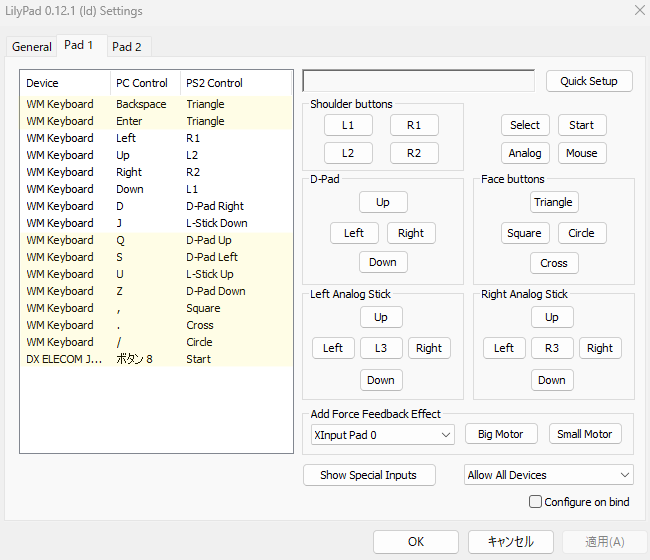
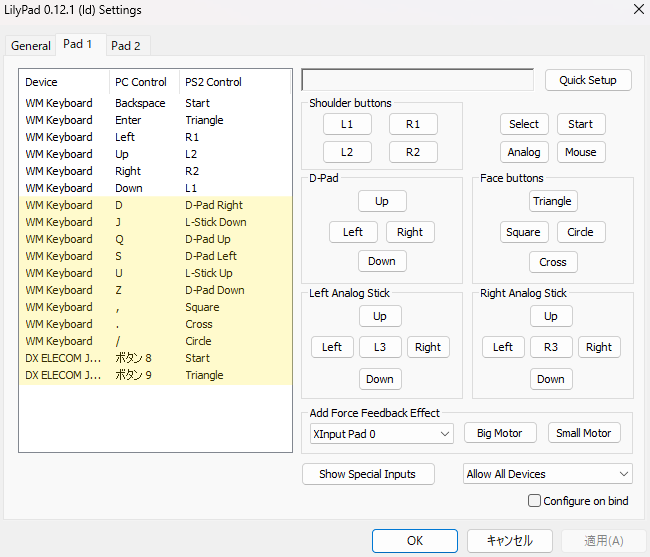
fix: BVEのSTARTキー割り当て修正およびPCSX2のSTART/SELECTキー送信を廃止

diff --git a/modes/pcsx2.py b/modes/pcsx2.py
@@ -80,7 +80,6 @@ class Pcsx2Logic(BaseLogic):
                         for _ in range(diff): self.press_emu(KEY_PCSX2_POWER_INC)
                     pydirectinput.keyDown(KEY_PCSX2_POWER_INC)
                     self.prev_axis = 5
-                self._handle_buttons(raw_btns)
                 return
 
         # ---------------------------------------------------------
@@ -130,14 +129,3 @@ class Pcsx2Logic(BaseLogic):
                             for _ in range(abs(diff)): self.press_emu(B_INC)
             
             self.prev_axis = cur_axis
-        
-        self._handle_buttons(raw_btns)
-
-    def _handle_buttons(self, raw_btns):
-        is_st, is_sl = (raw_btns[9]==1), (raw_btns[10]==1)
-        if is_sl != self.p_select:
-            pydirectinput.keyDown(KEY_PCSX2_HORN1) if is_sl else pydirectinput.keyUp(KEY_PCSX2_HORN1)
-            self.p_select = is_sl
-        if is_st != self.p_start:
-            pydirectinput.keyDown(KEY_PCSX2_HORN2) if is_st else pydirectinput.keyUp(KEY_PCSX2_HORN2)
-            self.p_start = is_st

diff --git a/const.py b/const.py
@@ -57,7 +57,8 @@ COLOR_HOLE = (20, 20, 20)
 # --- キーアサイン (JRETS/BVE) ---
 KEY_MASCON_UP, KEY_MASCON_DOWN, KEY_MASCON_N = 'z', 'a', 's'
 KEY_BRAKE_N, KEY_BRAKE_UP, KEY_BRAKE_DOWN, KEY_BRAKE_EMG = 'm', '.', ',', '/'
-KEY_START, KEY_SELECT = 'backspace', 'enter'
+KEY_START, KEY_SELECT, KEY_START_BVE = 'backspace', 'enter',  'add'
+
 
 # --- キーアサイン (PCSX2/RPCS3) ---
 KEY_PCSX2_POWER_INC = 'z' # マスコン増 / ハンドル奥へ
@@ -66,8 +67,8 @@ KEY_PCSX2_BRAKE_INC = '.' # ツーハン ブレーキ増 (通常)
 KEY_PCSX2_BRAKE_DEC = ',' # ツーハン ブレーキ減 (通常)
 KEY_PCSX2_N         = 's' # マスコン切 (N) ショートカット
 KEY_PCSX2_EMG       = '/' # 非常ブレーキ (PCSX2専用)
-KEY_PCSX2_HORN1     = 'enter'     # 電笛 (SELECT)
-KEY_PCSX2_HORN2     = 'backspace' # 空笛 (START)
+KEY_PCSX2_HORN1     = 'enter'     # SELECT
+KEY_PCSX2_HORN2     = 'backspace' # START
 
 # --- 定数マップ ---
 # 電気指令式 => 構成 : 緩解, 常用13段, 非常

diff --git a/modes/bve.py b/modes/bve.py
@@ -119,7 +119,7 @@ class BveLogic(BaseLogic):
 
         is_st, is_sl = (raw_btns[9]==1), (raw_btns[10]==1)
         if is_st != self.p_start: 
-            pydirectinput.keyDown(KEY_START) if is_st else pydirectinput.keyUp(KEY_START)
+            pydirectinput.keyDown(KEY_START_BVE) if is_st else pydirectinput.keyUp(KEY_START_BVE)
             self.p_start = is_st
         if is_sl != self.p_select: 
             pydirectinput.keyDown(KEY_SELECT) if is_sl else pydirectinput.keyUp(KEY_SELECT)

diff --git a/README.md b/README.md
@@ -74,7 +74,9 @@ PCゲームである JRETS や BVE では、ゲーム内のキー設定がデフ
 | 切 (N) に戻す | `S` | 一発でN(ノッチオフ) |
 | ブレーキ操作 | `.` / `,` / `M` | ブレーキを強める / 弱める / 一発でN(緩解) |
 | 非常ブレーキ | `/` | 一発でEB(非常ブレーキ) |
-| SELECT / START | `Enter` / `Backspace`| 電笛 / 空笛 |
+| SELECT | `Enter` | 電笛  |
+| START | `Backspace` | 空笛(JRETSモード時) |
+| START | `+` | 空笛(BVEモード時) |
 
 ---
 
@@ -104,7 +106,7 @@ JRETSおよびBVEでのみ使用する場合は無視して構いません。
 | `.` | Cross(✕) | ブレーキを強める(2ハンドルモード時)(御堂筋線モードでは反転し、","を送信) |
 | `,` | Square(☐) | ブレーキを弱める(2ハンドルモード時)(御堂筋線モードでは反転し、"."を送信) |
 | `/` | Circle(◯) | 一発でEB(非常ブレーキ)(PCSX2モードのみ)(※787系モードを除く) |
-| `SELECT` | Triangle(△)半押し | 通常警笛(※RPCS3モード時は京阪8000系モードを除いて全押し) |
+| `SELECT` | Triangle(△)半押し | 通常警笛(※RPCS3モーでは京阪8000系モード時を除いて全押し) |
 | `START` | START | START |
 
 ---
@@ -119,8 +121,8 @@ JRETSおよびBVEでのみ使用する場合は無視して構いません。
 | `W` | Select | ワイパー動作(RPCS3モード時) |
 | `Y` / `H` | L-Stick Up / Down | 視点変更など(Uで運転台を拡大/Jで運転台を縮小)(RPCS3モード時) |
 | `U` / `J` | R-Stick Up / Down | 視点変更など(Uで運転台の位置を上げる/Jで運転台の位置を下げる) |
-| `Enter` | Triangle(△)全押し | 非常警笛(RPCS3モード時) |
-| `Backspace` | Triangle(△)全押し | 非常警笛(PCSX2モード時) |
+| `Enter` | Triangle(△)全押し | 非常警笛 |
+| `Backspace` | START | START |
 | `矢印キー↓` | L1 | L1 |
 | `矢印キー↑` | L2 | L2 |
 | `矢印キー←` | R1 | R1 |
@@ -146,8 +148,12 @@ JRETSおよびBVEでのみ使用する場合は無視して構いません。
 
 ### PCSX2 の設定例 (LilyPad 等)
 ![PCSX2 Key Config](docs/pcsx2_settings.png)  
-※黄色で塗られているものは設定必須
-※STARTボタンのみコントローラ側のボタンを押して割り当てること
+※黄色で塗られているものは設定必須  
+※START, SELECTボタはコントローラ側のボタンを押して割り当てること
+
+> [!IMPORTANT]
+> **STARTボタンについて** > `Configre Binding` の `Sensitivity` の値を0.65以下に設定してください。  
+> SELECTボタンを押した際には普通の警笛、キーボードのEnterキーを押した場合に非常警笛を吹笛します。
 
 ### RPCS3 の設定例
 ![RPCS3 Key Config](docs/rpcs3_settings.png)
@@ -155,7 +161,7 @@ JRETSおよびBVEでのみ使用する場合は無視して構いません。
 
 > [!IMPORTANT]
 > **RPCS3の京阪8000系モードについて** > `Pressure Sensitivity Mode` のキーに **`E`** を割り当ててください。  
-> SELECTボタンを押した際には普通の警笛、Enterキーを押した場合に非常警笛を吹笛します。
+> SELECTボタンを押した際には普通の警笛、キーボードのEnterキーを押した場合に非常警笛を吹笛します。
 
 ## 免責事項 / Disclaimer
 
